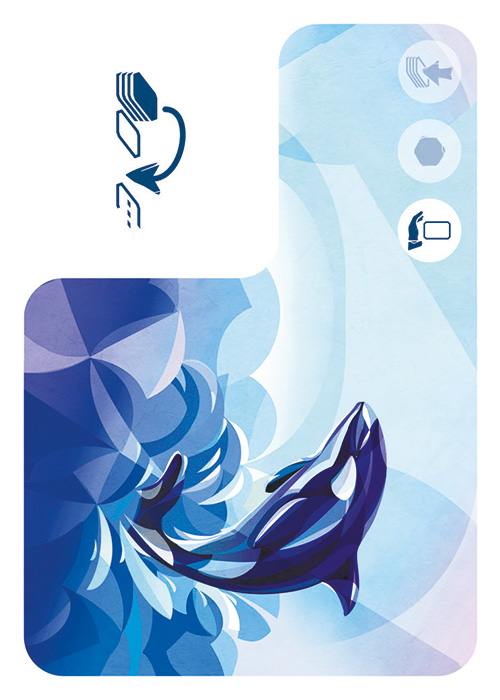
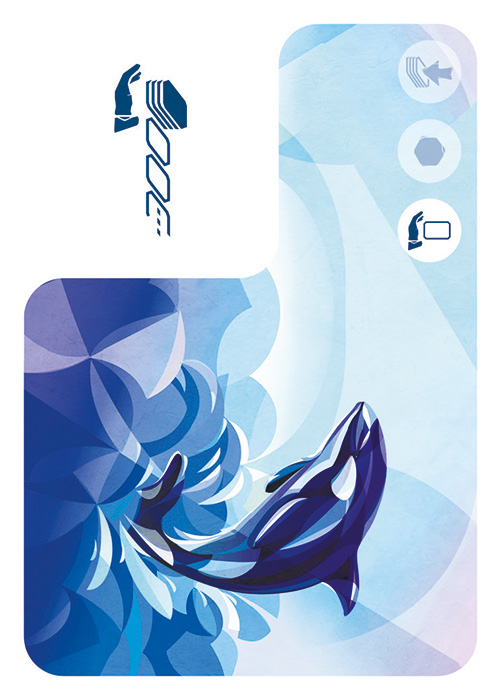
Implement orca effect

Changed region(s): [[0.21, 0.09, 0.39, 0.33]]

diff --git a/rules/src/rules/DrawAnimalCardsRule.ts b/rules/src/rules/DrawAnimalCardsRule.ts
@@ -1,6 +1,7 @@
 import { isMoveItemType, ItemMove, MaterialMove, PlayerTurnRule } from '@gamepark/rules-api'
 import { LocationType } from '../material/LocationType'
 import { MaterialType } from '../material/MaterialType'
+import { PowerCard } from '../material/PowerCard'
 import { Memory } from './Memory'
 import { RuleId } from './RuleId'
 
@@ -13,22 +14,81 @@ export class DrawAnimalCardsRule extends PlayerTurnRule {
   }
 
   getPlayerMoves() {
-    return this.material(MaterialType.AnimalCard).location(LocationType.River)
-      .moveItems({ type: LocationType.PlayerHand, player: this.player })
+    const moves: MaterialMove[] = []
+
+    moves.push(
+      ...this.river.moveItems({
+        type: LocationType.PlayerHand,
+        player: this.player
+      })
+    )
+
+    if (this.canTakeCardsOnDeck) {
+      moves.push(
+        ...this.deck.moveItems({
+          type: LocationType.PlayerHand,
+          player: this.player
+        })
+      )
+    }
+
+    return moves
   }
 
   afterItemMove(move: ItemMove): MaterialMove[] {
-    if (isMoveItemType(MaterialType.AnimalCard)(move) && move.location.type === LocationType.PlayerHand) {
-      this.memorize<number>(Memory.DrawValue, value => value - 1)
-      if (this.remind<number>(Memory.DrawValue) == 0) {
-        const missingCards = 6 - this.material(MaterialType.AnimalCard).location(LocationType.River).length
+    if (!isMoveItemType(MaterialType.AnimalCard)(move) || move.location.type !== LocationType.PlayerHand) return []
+    const isRefillDirectly = this.isRiverRefillDirectly
 
-        return [
-          ...this.material(MaterialType.AnimalCard).location(LocationType.AnimalCardsDeck).deck().deal({ type: LocationType.River }, missingCards),
-          this.rules().startPlayerTurn(RuleId.PlayAnimalCards, this.nextPlayer)
-        ]
+    this.memorize<number>(Memory.DrawValue, value => value - 1)
+    if (this.remind<number>(Memory.DrawValue) == 0) {
+      const missingCards = 6 - this.material(MaterialType.AnimalCard).location(LocationType.River).length
+      return [
+        ...this.dealCards(missingCards),
+        this.rules().startPlayerTurn(RuleId.PlayAnimalCards, this.nextPlayer)
+      ]
+    } else {
+      if (isRefillDirectly) {
+        return this.dealCards()
       }
     }
+
     return []
+  }
+
+  dealCards(count: number = 1): MaterialMove[] {
+    return this
+      .deck
+      .deal({ type: LocationType.River }, count)
+  }
+
+  get deck() {
+    return this
+      .material(MaterialType.AnimalCard)
+      .location(LocationType.AnimalCardsDeck)
+      .deck()
+  }
+
+  get river() {
+    return this
+      .material(MaterialType.AnimalCard)
+      .location(LocationType.River)
+  }
+
+  get canTakeCardsOnDeck() {
+    if (!this.deck.length) return false
+    return this
+      .material(MaterialType.PowerCard)
+      .location(LocationType.PowerPile)
+      .player(this.player)
+      .id((id: PowerCard) => id === PowerCard.Orca2)
+  }
+
+  get isRiverRefillDirectly() {
+    if (!this.deck.length) return false
+    return this
+      .material(MaterialType.PowerCard)
+      .location(LocationType.PowerPile)
+      .player(this.player)
+      .id((id: PowerCard) => id === PowerCard.Orca1)
   }
 }
